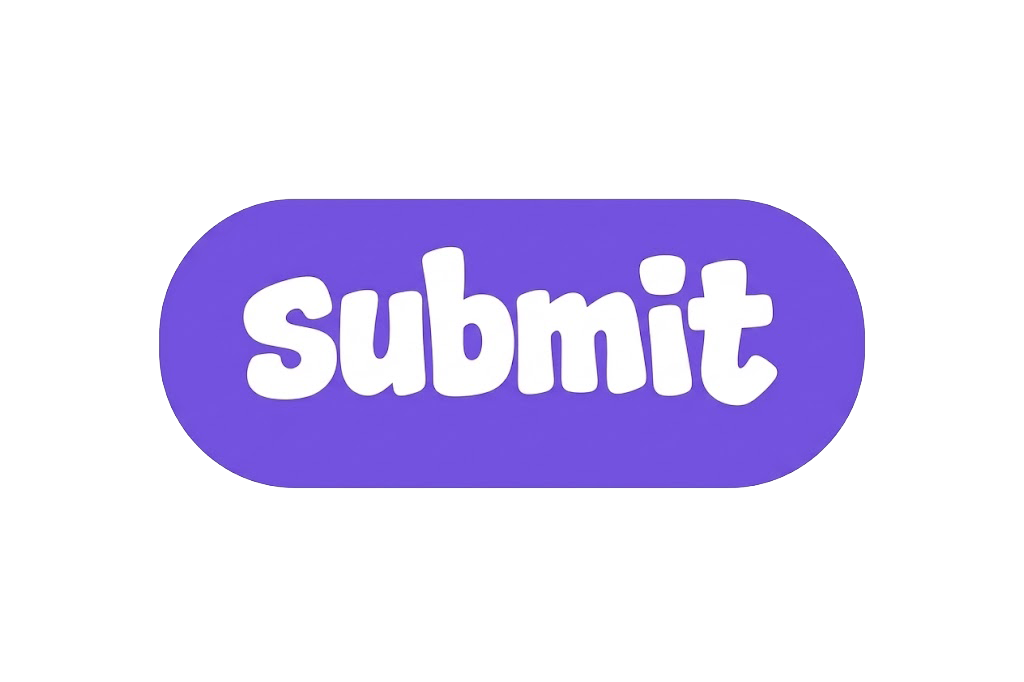
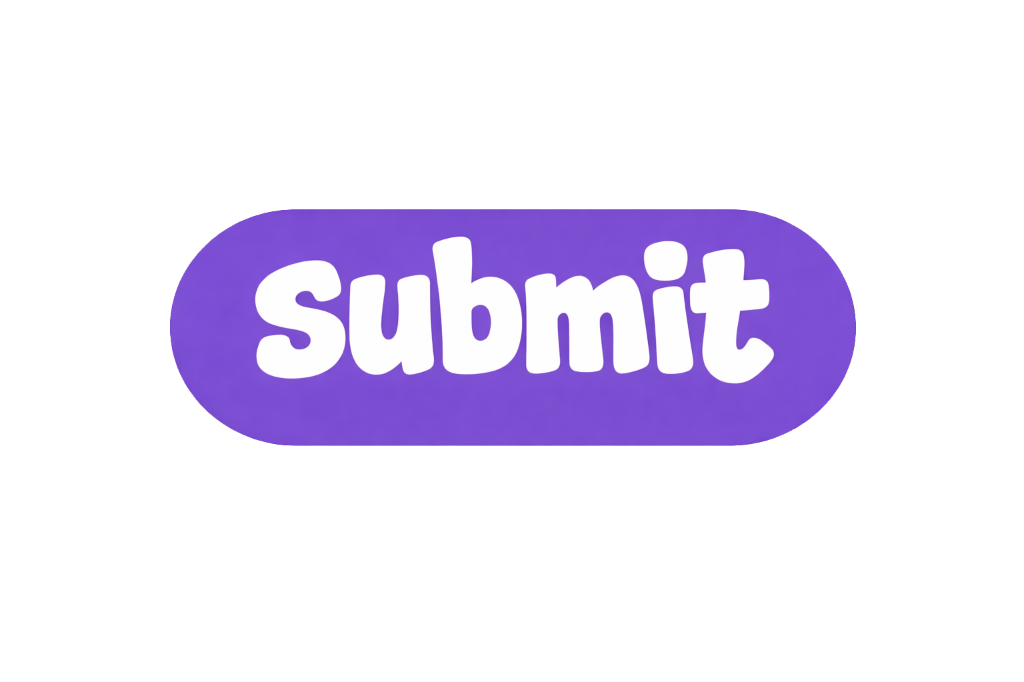
Replace Submit button graphic with high-resolution version and upscale to h-[72px]

diff --git a/src/pages/Home.tsx b/src/pages/Home.tsx
@@ -660,7 +660,7 @@ const Home = () => {
                 <img 
                   src="/btn-submit.png" 
                   alt={userSelection && timeLeft > 0 ? "Submitted" : "Submit"} 
-                  className="h-[64px] w-auto object-contain" 
+                  className="h-[72px] w-auto object-contain" 
                 />
               </button>
             </div>
